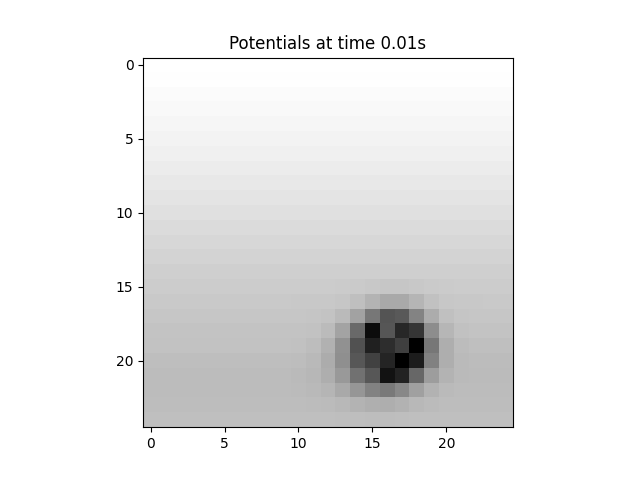
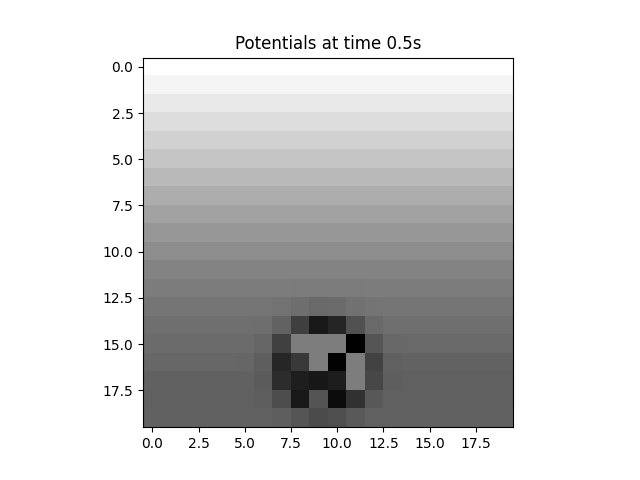
Clean code.

diff --git a/main.py b/main.py
@@ -5,37 +5,58 @@ import tqdm as tqdm
 from baseDNF import gaussian, euclidean_dist, logistic_sigmoid
 from neuron import CUBA_LIF
 
-# DNF
-_C_EXC = 0.2
-_C_INH = 0.16
-_WIDTH = 25
-_HEIGHT = 25
-_SIGMA_EXC = 0.1 * 50*50 / (_WIDTH*_HEIGHT)
-_SIGMA_INH = 2 * 50*50 / (_WIDTH*_HEIGHT)
-_SIGMA = 0.1
-_SIGMA_SPIKE = 0.06
-_GAMMA = 4.5
-_GAMMA_MAX = 200
-_H = 0.05
+####################################
+QUESTION = 1
+####################################
 
 # ACTIVITIES
 _P1 = (0.3, 0.3)
 _P2 = (0.7, 0.7)
 
-# SIMU
-_DT = 1e-4
-_TAU = 0.1*_DT
-_N = 100
+if QUESTION == 1:
+    # DNF
+    _C_EXC = 0.2
+    _C_INH = 0.16
+    _WIDTH = 45
+    _HEIGHT = 45
+    _SIGMA_EXC = 0.1 * 50*50 / (_WIDTH*_HEIGHT)
+    _SIGMA_INH = 2 * 50*50 / (_WIDTH*_HEIGHT)
+    _SIGMA = 0.1
+    _SIGMA_SPIKE = 0.06
+    _GAMMA = 4.5
+    _H = 0.05
 
-# NEURON CUBA LIF
-_C = 3e-6     # F
-_R = 600      # Ohm
-_U0 = 0.1     # V
-_I0 = 2.0e-3  # A
-_SEUIL = 2e-1 # mV
-_TAU = 1.5e-3   # s
+    # SIMU
+    _DT = 1e-2
+    _TAU = 0.1*_DT
+    _N = 1000
 
-_CONNEXION_WEIGHT_EX = 1e-3
+if QUESTION == 2:
+    # DNF
+    _C_EXC = 0.2
+    _C_INH = 0.16
+    _WIDTH = 20
+    _HEIGHT = 20
+    _SIGMA_EXC = 0.1 * 50*50 / (_WIDTH*_HEIGHT)
+    _SIGMA_INH = 2 * 50*50 / (_WIDTH*_HEIGHT)
+    _SIGMA = 0.1
+    _SIGMA_SPIKE = 0.06
+    _GAMMA = 4.5
+    _H = 0.05
+
+    # SIMU
+    _DT = 5e-4
+    _N = 1000
+
+    # NEURON CUBA LIF
+    _C = 3e-6     # F
+    _R = 600      # Ohm
+    _U0 = 0.1     # V
+    _I0 = 2.0e-3  # A
+    _SEUIL = 2e-1 # mV
+    _TAU = 1.5e-3   # s
+
+    _CONNEXION_WEIGHT_EX = 1e-3
 
 
 def omega(
@@ -117,13 +138,13 @@ def moving_activities_in_circle(t, T, r, sizes, sigma, N=1):
     t = t%T
     pos = lambda r, theta : (r*np.cos(theta)/2+0.5, r*np.sin(theta)/2+0.5)
 
-    centers = [pos(r, 2*np.pi*t/T + i*np.pi/N) for i in range(N)] 
+    centers = [pos(r, 2*np.pi*t/T + i*2*np.pi/N) for i in range(N)] 
     activity = gaussian_activity(centers, sizes, sigma)
     
     return activity
 
-def update_activities(T, r, height, sigma):
-    return lambda t : moving_activities_in_circle(t, T, r, height, sigma)
+def update_activities(T, r, height, sigma, N=1):
+    return lambda t : moving_activities_in_circle(t, T, r, height, sigma, N)
 
 class DNF:
     def __init__(self, input_map, c_exc, c_inh, sigma_exc, sigma_inh, gamma, h, width=45, height=45, tau=1e-3, dt=1e-5): # à vous de déterminer les paramètres nécessaires
@@ -303,7 +324,6 @@ class SpikingDNF(DNF):
 
 
 if __name__ == "__main__":
-    QUESTION = 2
 
     if QUESTION == 1:
         activity = gaussian_activity([_P1, _P2], _HEIGHT, _SIGMA)
@@ -311,8 +331,8 @@ if __name__ == "__main__":
 
         dnf = DNF(
             input_map=activity,
-            c_exc=_C_EXC_DNF,
-            c_inh=_C_INH_DNF,
+            c_exc=_C_EXC,
+            c_inh=_C_INH,
             sigma_exc=_SIGMA_EXC,
             sigma_inh=_SIGMA_INH,
             gamma=_GAMMA,
@@ -354,6 +374,6 @@ if __name__ == "__main__":
             dt=_DT,
         )
 
-        update_act = update_activities(1e-1, 0.7, _HEIGHT, _SIGMA_SPIKE)
+        update_act = update_activities(5e-1, 0.7, _HEIGHT, _SIGMA_SPIKE, N=1)
         spiking_dnf.update_map_N(_N, update_activities=update_act)
         plot_gaussian_activity(spiking_dnf.potentials, f"Potentials at time {_N*_DT}s", "figures/spiking_dnf_potential.png")
